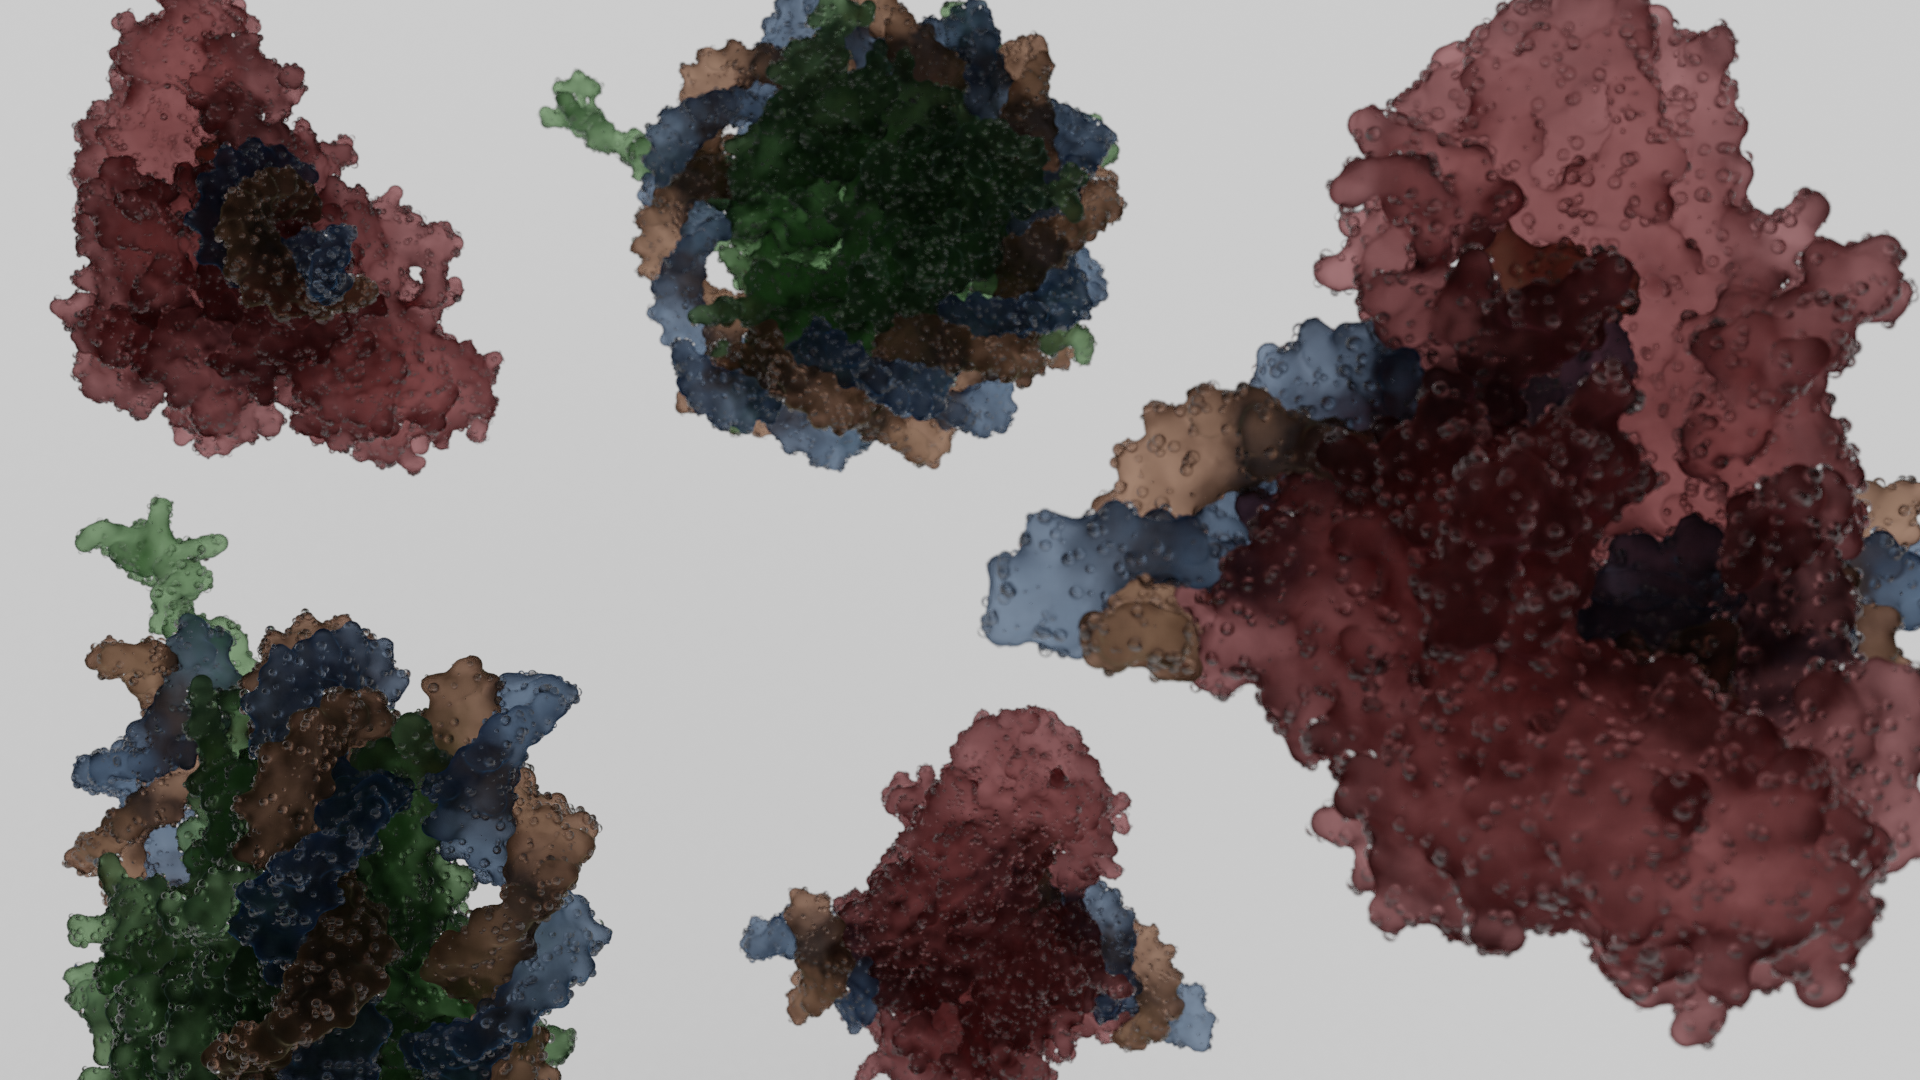
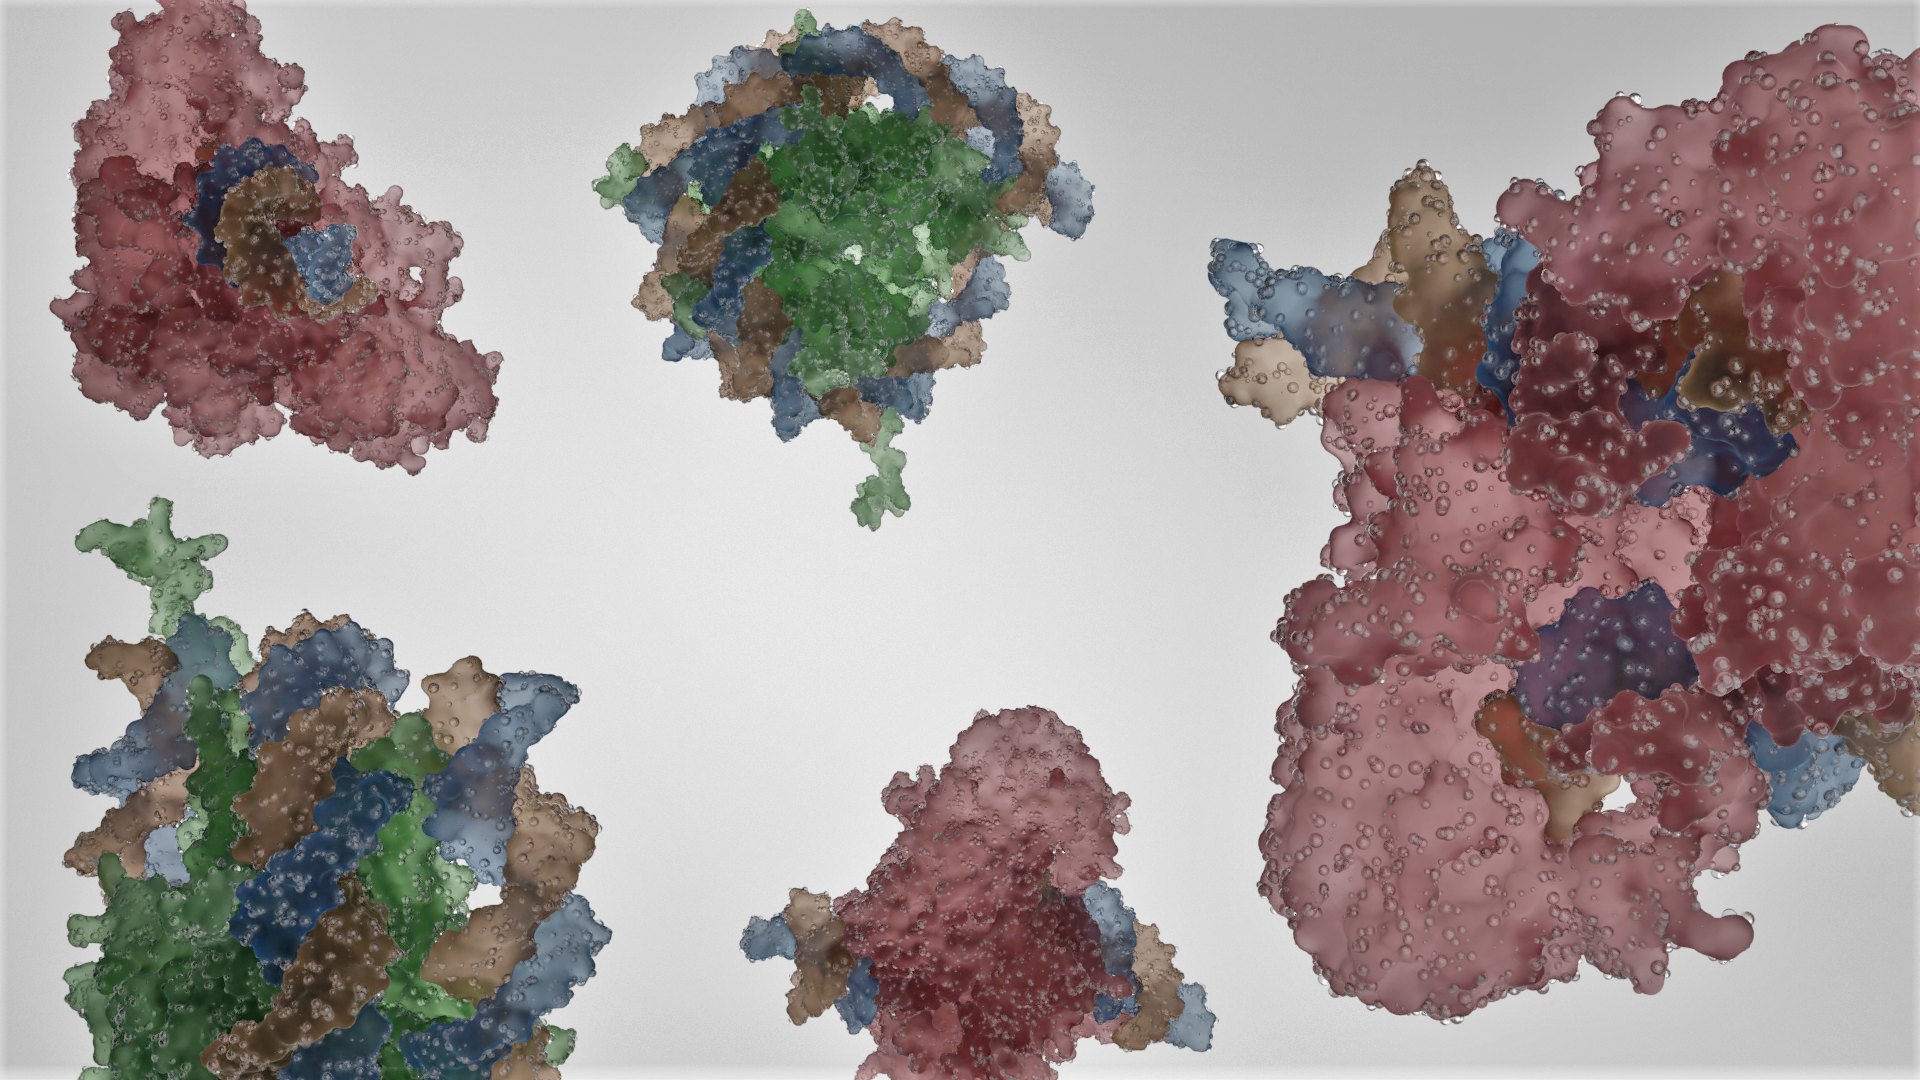
tutorial for molecule renders

diff --git a/docs/side_projects/molecular_renders.md b/docs/side_projects/molecular_renders.md
@@ -1,0 +1,173 @@
+---
+title: Molecular renders
+layout: side_projects
+author: Ryan Mulqueen
+permalink: /molecular_render/
+category: side_projects
+---
+
+
+<style>
+
+h1 {
+  text-transform: uppercase;
+  font-size: clamp(5rem, 5vw + 0.5rem, 5rem);
+  line-height: 0.9;
+  margin: 0;
+  color: antiquewhite;
+  mix-blend-mode: hard-light;
+  position:absolute; left:2rem; top: 4em;
+
+  code {
+    display: block;
+    width: max-content;
+    background: white;
+    font-size: 0.5em;
+    color: #355f08;
+    padding: 0.1em;
+    border-radius: 0.125em;
+    margin-bottom: 0.05em;
+    font-family: 'PT Sans';
+    font-weight: 1000;
+  }
+}
+
+.background_img {
+  min-height: 75vh;
+  background-image: url("{{site.baseurl}}/assets/images/molrender.png");
+  color: white;
+  display: flex;
+  isolation: isolate;
+  width: 100%;
+
+  /* Create the parallax scrolling effect */
+  background-attachment: fixed;
+  background-position: center;
+  background-repeat: no-repeat;
+  background-size: cover;
+
+}
+
+.hero-intro {
+  width: 100%;
+  padding: 2em;
+}
+
+</style>
+
+<div class="background_img">
+  <div class="hero-intro">
+    <h1><code style="font-weight: 1000; font-family: 'PT Sans'" >molecular renders</code></h1>
+  </div>
+</div>
+
+### Introduction
+
+The images on the home page of this website and the one above this text were rendered by me using [PDB](https://www.rcsb.org/) molecular structures in Blender. I figure I'd write up a quick tutorial for the sake of having more content. 
+
+Required software
+- Chimera X ([link](https://www.rbvi.ucsf.edu/chimerax/download.html))
+- Blender ([link](https://www.blender.org/))
+
+Here I generated a gallery of GIFs showing the step by step process from start to finish to generate the render at the top of this page. 
+
+<blockquote class="imgur-embed-pub" lang="en" data-id="a/6rH0B4U"  ><a href="//imgur.com/a/6rH0B4U">Molecular Render tutorial</a></blockquote><script async src="//s.imgur.com/min/embed.js" charset="utf-8"></script>
+
+Gif numbers (1-16) are listed as separate steps below with more information. If you want to pause them, rewind, or zoom in, you can click on the widget and it should bring you to the Imgur gallery. 
+
+## Get a molecular structure into Blender
+
+### 1. Download a PDB structure
+- From [PDB](https://www.rcsb.org/) download a .pdb or "Biological Assembly" molecule. I think the "Biological Assembly" format sometimes includes additional complexed molecules (such as DNA or RNA). For this tutorial I downloaded [transcription factors OCT4 and SOX2 bound to DNA.](https://www.rcsb.org/structure/1gt0)
+
+### 2. Use ChimeraX to convert the structure into glb format
+- Open ChimeraX and then the molecule we downloaded. In "Molecule Display" tab hide atoms and cartoons and show surfaces. Then in the command line at the bottom of the program type the following commands to save the surface structure as glb.
+
+```bash
+cd [directory of your choice]
+save [file].glb
+```
+
+### 3. Import the glb structure in Blender
+Open Blender and go to File > Import > gITF 2.0 (.glb/.gltf) then select your glb formatted molecule.
+
+## Set up the viewport
+
+### 4. Scale down the molecule
+- Select all molecules imported by going to the "Outliner" window on the top right. Right click the imported molecule and select "Select Hierarchy" to ensure all are selected. 
+- Use "S" to scale the molecule down.
+
+### 5. Set the stage.
+- Remove the default cube by selected and pressing "Del".
+- On the top left of the viewport window select "Add" > "Mesh" > "Plane"
+- Scale the plane to a large enough size that it will take up the whole camera angle.
+- With the plane selected, go to "Edit" mode and select the three verteces and use "E" to extrude them further.
+- Drag the extruded vertexes back and upwards.
+-Select the modifier tab for the plane (the blue wrench) and add a "Subdivision Surface" modifier. 
+-Set the Levels viewport to 3 (to make it look a bit smoother as we work, but it doesn't really matter). Set the render levels to 6 to really smooth it for our final render.
+
+### 6. Set up the light.
+- Select the light element and move it by pressing "G". To move it in just the X, Y, or Z, plane use "G" then "X","Y","Z" respectively.
+
+I think putting the light directly behind the molecule looks really cool.
+
+- Also take the time now to set up the size (S), rotation (R) and position (G) of the molecule.
+
+You can check the position of the molecule in the render by pressing the old timey looking film camera button on the right or top of the viewport. This puts you in the camera's perspective.
+
+## Add some surface fascinators
+
+At this point I'm using the geometry nodes tutorial by the BlenderGuru ([link here](https://www.youtube.com/watch?v=52UYqe3zdxQ)). So I'll be a bit briefer in my descriptions. These surface bubbles aren't necessary, but I think they interact with the light and the translucent material in fun ways. 
+
+### 7. Initiate geometry nodes.
+- On the bottom left, press the clock looking button to switch to "Geometry Node Editor" and expand the window. Select a molecule and press "New" to initiate geometry nodes.
+
+### 8. Add nodes.
+- Use "Shift+A" to add new nodes. From there use the search function to add nodes and connections until the geometry nodes looks like the picture below. 
+
+<img src="{{site.baseurl}}/assets/images/molrend_geometrynodes.png">
+
+### 9. Set up a master bubble.
+- In the object viewport, press "Add" > "Mesh" > "UV Sphere"
+- Move the sphere with "G" to get it out of the way for the render.
+- Add a "Subdivision Surface" modifier to the sphere as well to ensure we get smooth bubbles. Set the render levels to 6.
+- In the "Point Instance" geometry node, press the Object eyedropper to select the sphere.
+
+### 10. Use texture to unevenly distribute the bubbles.
+- Modify the texture that determines the position of the bubbles along the molecules. Press the right most button next to the texture selector in the Attribute Sample Texture geometry node to see the texture to be modified in the right panel.
+- Set type to "Clouds" and then play with "Size" and "Contrast" settings until you find a dispersal pattern that you like.
+
+### 11. Apply geometry nodes to other molecules.
+- To copy the geometry node you set up for a single molecule, just press on a new one, press "New" to initiate geometry nodes for that object, and then assign the same geometry node to the newly selected object.
+
+## Adding material properties
+Now to some material properties to the objects for the render. Again, I am pretty much copying the materials set up by the BlenderGuru in this [tutorial ](https://www.youtube.com/watch?v=52UYqe3zdxQ). He uses it for generating gum drops, but I think it looks like a sea glass when applied to molecules.
+
+### 12. Add a shader to the bubble.
+- Using the same button that we used to access the geometry nodes, we will switch that panel to the Shader Editor.
+- Select the sphere, initialize the shader, and adjust it to these settings.
+
+<img src="{{site.baseurl}}/assets/images/molrend_bubbleshader.png">
+
+### 13. Add a shader to the molecules. 
+- Now do the same for the molecules, adjusting them to these settings.
+<img src="{{site.baseurl}}/assets/images/molrend_molshader.png">
+
+### 14. Copy the shader across molecules
+- Copy the shader set up across molecules the same way we did the geometry node copying.
+- After this, you can break the copy from its parent by pressing the number next to the node name on the top of the panel. 
+- Following this, you can adjust the molecule colors individually. I tend to use low saturation colors (<0.2). Colors can be adjusted in "Refraction BSDF", "Glossy BSDF" and "RGB" Shader nodes.
+
+## Final rendering
+Finally lets snap a pic!
+
+### 15. Adjust around the molecule and light for final render
+- Take one last chance to move the molecules around while in camera view to get a dope render.
+
+### 16. Render
+- Click on the "Render properties" tab on the right panel and set the Render engine to "Cycles"
+- Under "Denoising" check the "Render" box for NLM
+- Finally press "F12" key to render and watch that sucka cook.
+
+Here's my final result on OCT4 and SOX2 bound to DNA, I kept the molecule near the floor to get a good shadowing effect. 
+<img src="{{site.baseurl}}/assets/images/molrender_full.png">
